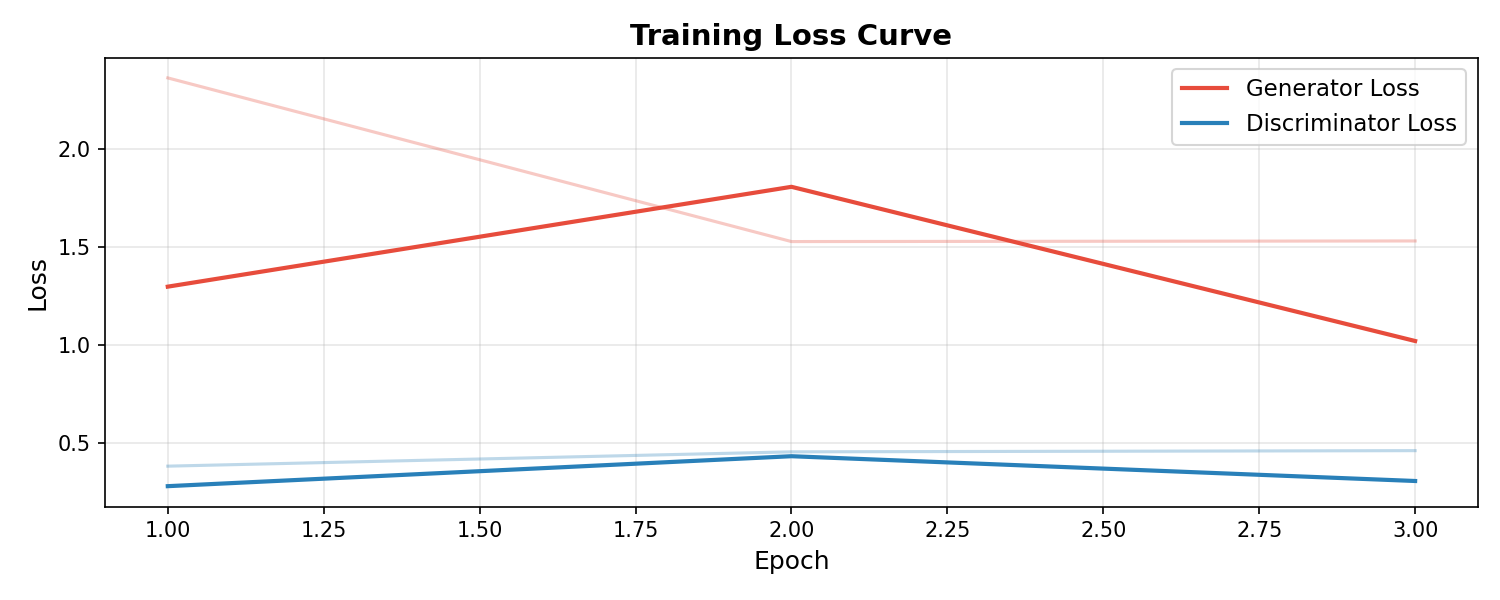
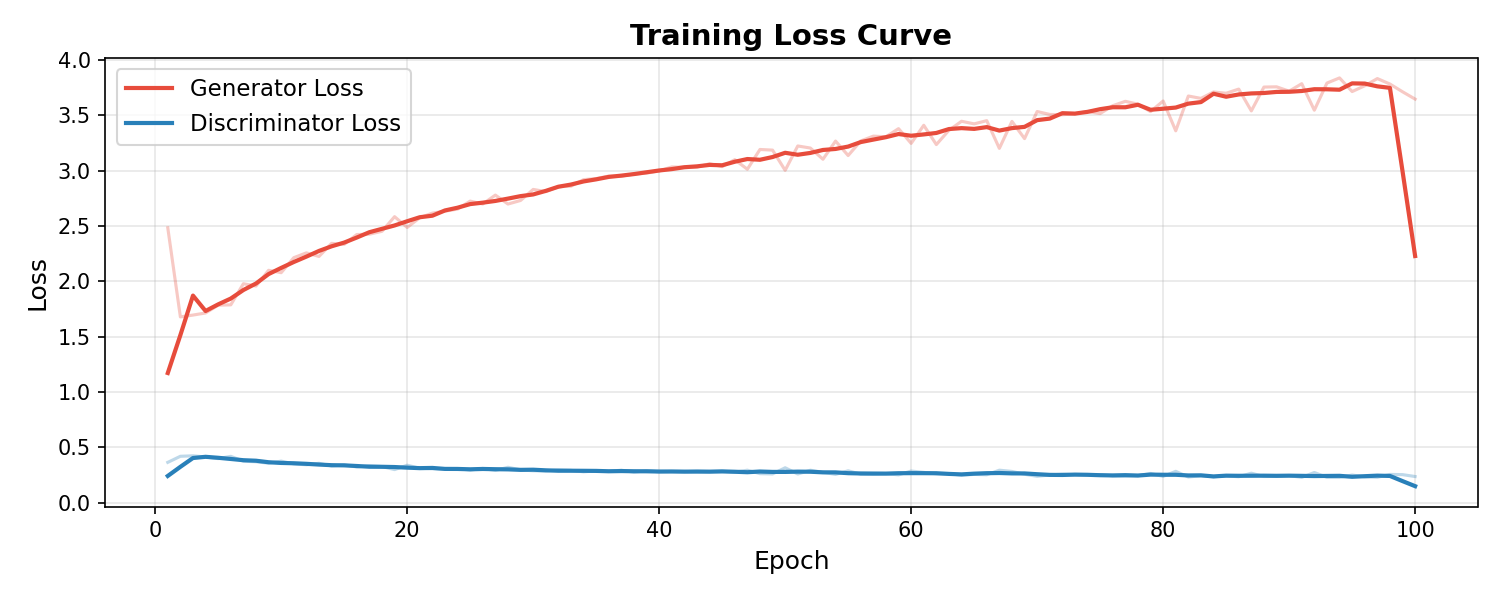
all

diff --git a/compute_fid.py b/compute_fid.py
@@ -1,123 +1,140 @@
 """
 compute_fid.py
 ──────────────
-CS318 GAN – FID Score Computation
-Uses pytorch-fid to compute Fréchet Inception Distance between
-real MNIST images and generated samples.
+CS318 GAN – FID Score Computation (FIXED VERSION)
 
-Steps performed automatically:
-  1. Export 10 k real MNIST images to data/real_mnist/  (once)
-  2. Load generated images from results/<model>/generated/
-  3. Run pytorch-fid and save score to results/<model>/fid_score.txt
+Uses pytorch-fid (Python API) to compute Fréchet Inception Distance.
 
-Usage:
-    # Export real MNIST images only (one-time setup):
-    python compute_fid.py --export_real
-
-    # Compute FID for dcgan (needs trained model + generated samples):
-    python compute_fid.py --model dcgan
-
-    # Compute FID for both models:
-    python compute_fid.py --model vanilla
-    python compute_fid.py --model dcgan
+Steps:
+  1. Export real MNIST images → data/real_mnist/
+  2. Load generated images → results/<model>/samples/
+  3. Compute FID directly (no subprocess parsing issues)
+  4. Save score → results/<model>/fid_score.txt
 """
 
 import argparse
 import os
-import subprocess
 import sys
 import torch
 from torchvision import datasets, transforms
 from torchvision.utils import save_image
 from tqdm import tqdm
 
+# ✅ NEW: direct FID import
+from pytorch_fid import fid_score
+
+
 REAL_DIR = "data/real_mnist"
 N_REAL   = 10000
 
 
+# ---------------------------------------------------------
+# Export real MNIST images
+# ---------------------------------------------------------
 def export_real_mnist(n: int = N_REAL):
-    """Save n real MNIST training images to REAL_DIR as PNG files."""
     if os.path.exists(REAL_DIR) and len(os.listdir(REAL_DIR)) >= n:
-        print(f"[INFO] Real MNIST images already exported ({REAL_DIR}/)  – skipping.")
+        print(f"[INFO] Real MNIST already exists → {REAL_DIR}/")
         return
 
     os.makedirs(REAL_DIR, exist_ok=True)
+
     transform = transforms.Compose([
         transforms.ToTensor(),
         transforms.Normalize([0.5], [0.5]),
     ])
-    dataset = datasets.MNIST(root="./data", train=True,
-                             download=True, transform=transform)
 
-    print(f"[INFO] Exporting {n} real MNIST images → {REAL_DIR}/ …")
+    dataset = datasets.MNIST(
+        root="./data",
+        train=True,
+        download=True,
+        transform=transform
+    )
+
+    print(f"[INFO] Exporting {n} real MNIST images → {REAL_DIR}/")
+
     pbar = tqdm(total=n, unit="img", ncols=80)
+
     for i, (img, _) in enumerate(dataset):
         if i >= n:
             break
+
         save_image(img, f"{REAL_DIR}/{i:05d}.png", normalize=True)
         pbar.update(1)
+
     pbar.close()
-    print(f"[DONE] {n} real images saved → {REAL_DIR}/")
+    print(f"[DONE] Saved {n} real images.")
 
 
+# ---------------------------------------------------------
+# Compute FID
+# ---------------------------------------------------------
 def compute_fid(model_type: str):
-    """Run pytorch-fid and write the score to a txt file."""
+    # ✅ FIXED PATH (IMPORTANT)
     gen_dir = f"results/{model_type}/generated"
     out_txt = f"results/{model_type}/fid_score.txt"
 
     if not os.path.exists(gen_dir) or len(os.listdir(gen_dir)) == 0:
-        print(f"[ERROR] No generated images found at '{gen_dir}'.")
-        print(f"  Run first:  python generate_samples.py --model {model_type}")
+        print(f"[ERROR] No generated images found at '{gen_dir}'")
+        print(f"Run first: python generate_samples.py --model {model_type}")
         sys.exit(1)
 
     if not os.path.exists(REAL_DIR) or len(os.listdir(REAL_DIR)) == 0:
-        print("[ERROR] Real MNIST images not exported yet.")
-        print("  Run:  python compute_fid.py --export_real")
+        print("[ERROR] Real MNIST images not found")
+        print("Run: python compute_fid.py --export_real")
         sys.exit(1)
 
-    print(f"[INFO] Computing FID for {model_type.upper()} …")
-    result = subprocess.run(
-        [sys.executable, "-m", "pytorch_fid", REAL_DIR, gen_dir,
-         "--device", "cuda" if torch.cuda.is_available() else "cpu"],
-        capture_output=True, text=True
+    print(f"[INFO] Computing FID for {model_type.upper()}...")
+
+    device = torch.device("cuda" if torch.cuda.is_available() else "cpu")
+
+    # ✅ BEST METHOD (no parsing issues)
+    fid_value = fid_score.calculate_fid_given_paths(
+        [REAL_DIR, gen_dir],
+        batch_size=50,
+        device=device,
+        dims=2048
     )
 
-    output = result.stdout + result.stderr
-    print(output)
+    print(f"[RESULT] FID = {fid_value:.4f}")
 
-    # Extract FID value from output
-    fid_value = None
-    for line in output.splitlines():
-        if "FID" in line:
-            try:
-                fid_value = float(line.strip().split()[-1])
-            except ValueError:
-                pass
+    # Save result
+    with open(out_txt, "w") as f:
+        f.write(f"Model : {model_type.upper()}\n")
+        f.write(f"FID   : {fid_value:.4f}\n")
+        f.write(f"Real  : {REAL_DIR} ({len(os.listdir(REAL_DIR))} images)\n")
+        f.write(f"Fake  : {gen_dir} ({len(os.listdir(gen_dir))} images)\n")
 
-    if fid_value is not None:
-        with open(out_txt, "w") as f:
-            f.write(f"Model : {model_type.upper()}\n")
-            f.write(f"FID   : {fid_value:.4f}\n")
-            f.write(f"Real  : {REAL_DIR}  ({len(os.listdir(REAL_DIR))} images)\n")
-            f.write(f"Fake  : {gen_dir}  ({len(os.listdir(gen_dir))} images)\n")
-        print(f"[DONE] FID = {fid_value:.4f}  →  saved to {out_txt}")
-    else:
-        print("[WARN] Could not parse FID value from output. Check output above.")
-        with open(out_txt, "w") as f:
-            f.write(output)
+    print(f"[DONE] FID saved → {out_txt}")
 
 
+# ---------------------------------------------------------
+# Main
+# ---------------------------------------------------------
 if __name__ == "__main__":
     parser = argparse.ArgumentParser(description="Compute FID for GAN models")
-    parser.add_argument("--model",       choices=["vanilla", "dcgan"], default="dcgan")
-    parser.add_argument("--export_real", action="store_true",
-                        help="Only export real MNIST images (one-time setup)")
-    parser.add_argument("--n_real",      type=int, default=N_REAL,
-                        help=f"Number of real images to export (default: {N_REAL})")
+
+    parser.add_argument(
+        "--model",
+        choices=["vanilla", "dcgan"],
+        default="dcgan"
+    )
+
+    parser.add_argument(
+        "--export_real",
+        action="store_true",
+        help="Export real MNIST images only"
+    )
+
+    parser.add_argument(
+        "--n_real",
+        type=int,
+        default=N_REAL
+    )
+
     args = parser.parse_args()
 
     if args.export_real:
         export_real_mnist(args.n_real)
     else:
-        export_real_mnist(args.n_real)   # idempotent
+        export_real_mnist(args.n_real)  # safe to call again
         compute_fid(args.model)